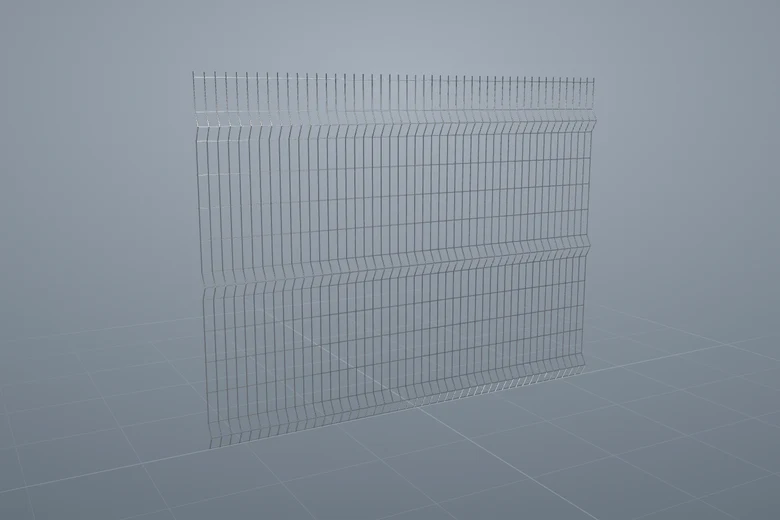
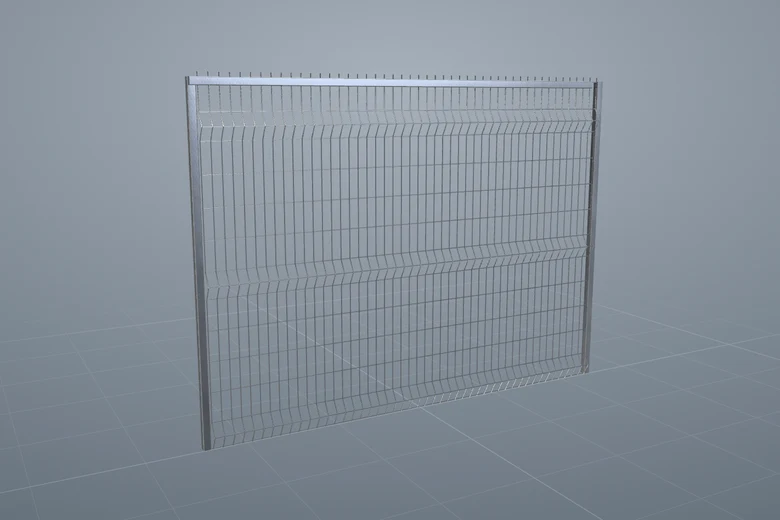
Grillage de la cage : traverse et poteaux ajoutés d'après la photo (tube carré galvanisé d'environ 1 1/2 po, traverse devant le haut du panneau arrêtée à 3 po du poteau de droite, poteau de gauche supposé), page P03 de repérage, fiche, vignette et README
Claude-Session: https://claude.ai/code/session_015N4WsrqzebsMMvPhmLn3Z2

Changed region(s): [[0.2154, 0.1231, 0.7692, 0.8615], [0.5846, 0.7385, 0.6462, 0.7692]]

diff --git a/src/models/grillage-cage/index.js b/src/models/grillage-cage/index.js
@@ -13,11 +13,17 @@
 // panneau, illisible sur la photo), l'angle des plis et le côté des fils
 // horizontaux sont supposés ; voir la note de la page.
 //
+// Traverse et poteaux de la cage (repères 4 et 5) : relevés sur la même photo,
+// sans cote. La traverse passe devant le haut du panneau (elle cache les fils,
+// dont les pointes ressortent au-dessus) et s'arrête à environ 3 po du poteau
+// de droite ; le poteau monte jusqu'au niveau de la traverse. Section en tube
+// carré d'environ 1 1/2 po estimée à l'œil ; poteau de gauche supposé.
+//
 // Repère du modèle : X largeur (0 au milieu), Y vers le haut (0 à l'axe du fil
 // horizontal du bas), +Z vers l'avant (côté où sortent les plis). Mètres.
 import * as THREE from 'three';
 import { mat } from '../../viewer/materials.js';
-import { balayer, cercle, tauxPolygone } from '../porte-1801020/formes.js';
+import { balayer, carreArrondi, cercle, tauxPolygone } from '../porte-1801020/formes.js';
 
 const IN = 0.0254;
 const RAD = Math.PI / 180;
@@ -34,6 +40,11 @@ export const MAILLES = { n: 12, pas: 6 };
 export const PLIS = { mailles: [0, 5, 10], angle: 30 };
 /** Pointes : dépassement des fils verticaux au-dessus du fil horizontal du haut. */
 export const POINTE = 1;
+
+/** Tube carré de la traverse et des poteaux (estimé sur la photo). */
+export const TUBE = { cote: 1.5, rayon: 1 / 8 };
+/** Traverse : arrêt avant le poteau de droite ; poteaux : jeu au bord du panneau. */
+export const CAGE = { arret: 3, jeu: 1 / 4 };
 
 const PAN = MAILLES.pas / 2; // longueur d'un pan du V
 const SAILLIE = PAN * Math.sin(PLIS.angle * RAD); // profondeur du pli
@@ -108,6 +119,12 @@ function filHorizontal(large) {
   return fil([new THREE.Vector3(-h, 0, 0), new THREE.Vector3(h, 0, 0)], new THREE.Vector3(0, 0, 1));
 }
 
+/** Repères 4 et 5 : tube carré galvanisé entre deux points (po, repère du modèle), dans un plan de normale B. */
+function tube(a, b, B) {
+  const geo = balayer([a, b].map(([x, y, z]) => new THREE.Vector3(x * IN, y * IN, z * IN)), carreArrondi(TUBE.cote * IN, TUBE.rayon * IN), B);
+  return new THREE.Mesh(geo, mat('zinc'));
+}
+
 // ------------------------------------------------------------------ assemblage
 
 export function P01(api) {
@@ -142,6 +159,17 @@ export function P01(api) {
   // Fil du creux de chaque V : tangent aux deux pans, par derrière.
   const zCreux = SAILLIE - FIL / Math.cos(PLIS.angle * RAD);
   for (const y of sommets) put('3', pose(y, zCreux), [0, 0, -0.22]);
+
+  // Cage : les poteaux au bord du panneau, face avant au ras des fils verticaux ;
+  // la traverse devant, son dessus au ras du fil horizontal du haut.
+  const { hauteur } = profil();
+  const c = TUBE.cote;
+  const zPoteau = FIL / 2 - c / 2, zTraverse = FIL / 2 + c / 2;
+  const xPoteau = large / 2 + CAGE.jeu + c / 2;
+  const yHaut = hauteur + FIL / 2;
+  const Zp = new THREE.Vector3(0, 0, 1);
+  put('4', tube([-xPoteau - c / 2, yHaut - c / 2, zTraverse], [xPoteau - c / 2 - CAGE.arret, yHaut - c / 2, zTraverse], Zp), [0, 0.08, 0.3]);
+  for (const s of [-1, 1]) put('5', tube([s * xPoteau, -FIL / 2, zPoteau], [s * xPoteau, yHaut, zPoteau], Zp), [s * 0.25, 0, 0]);
 
   return { view: { dir: [-0.55, 0.22, 1] } };
 }

diff --git a/README.md b/README.md
@@ -380,8 +380,12 @@ pièces (numéro, quantité, page du manuel).
   po de large (48 fils verticaux), 70 po de haut au catalogue (70 11/16 po au
   modèle : 12 mailles de 6 po, 3 plis à 30°, pointes de 1 po), environ 41 lb
   calculées. Supposé, et signalé dans la note de la page : fil du haut caché
-  par la traverse, pli du pied, angle des plis, côté des fils horizontaux. La
-  traverse, les poteaux et les attaches de la cage ne sont pas modélisés.
+  par la traverse, pli du pied, angle des plis, côté des fils horizontaux.
+  Traverse et poteaux de la cage (P03, repères 4 et 5) relevés sur la même
+  photo, sans cote : tube carré galvanisé d'environ 1 1/2 po, traverse devant
+  le haut du panneau, arrêtée à environ 3 po du poteau de droite ; le poteau de
+  gauche, hors de la photo, est supposé. Crochet du poteau, attaches et ancrage
+  au plancher non modélisés.
 
 La page d'accueil (adresse sans « # », ou le logo en haut à gauche) liste
 les équipements et permet de passer de l'un à l'autre. Les adresses du premier équipement restent `#F05` ; celles des autres
